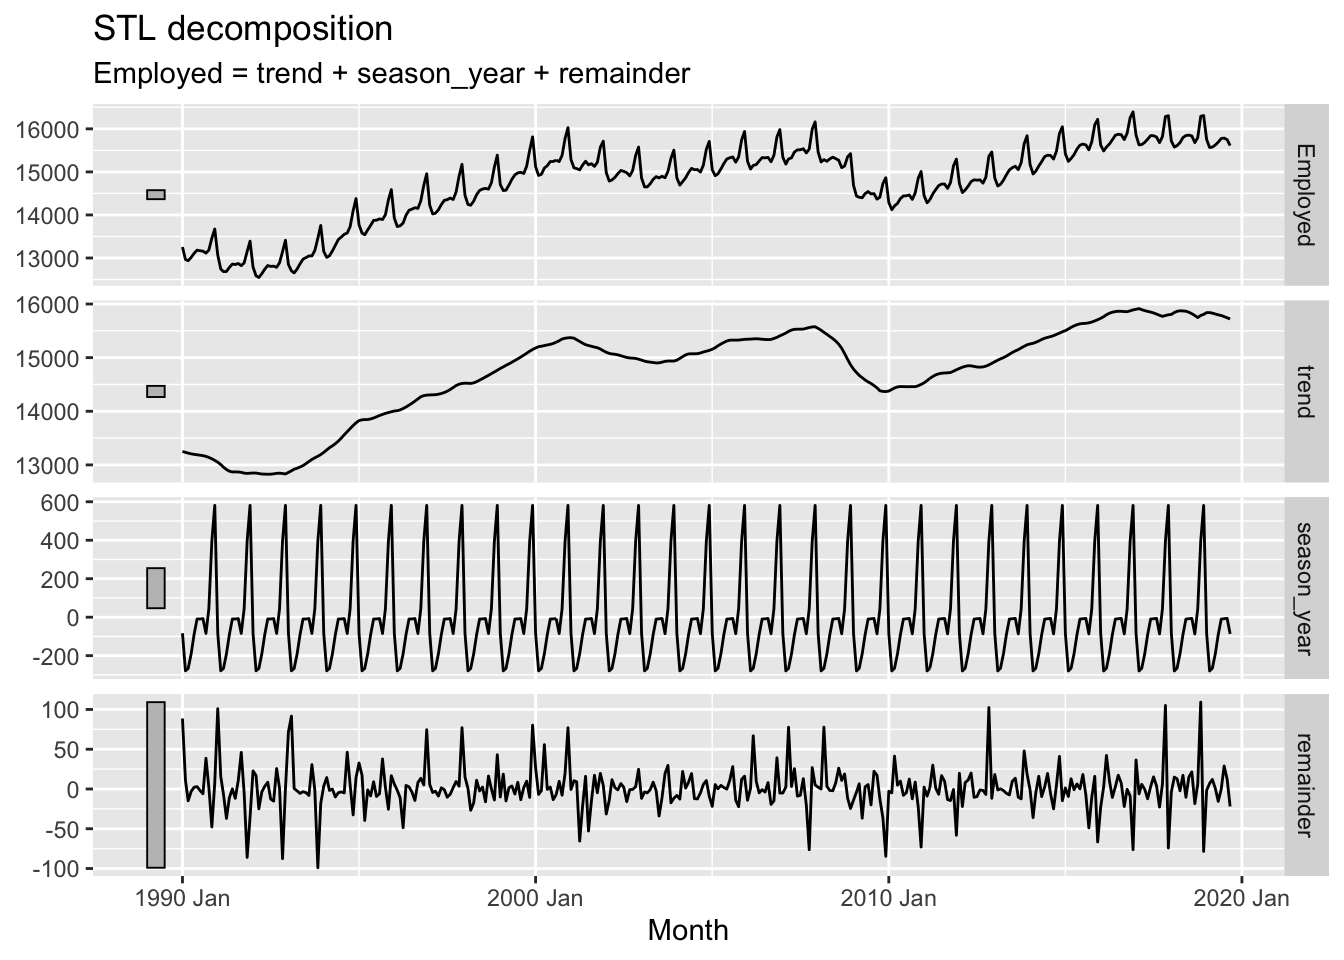
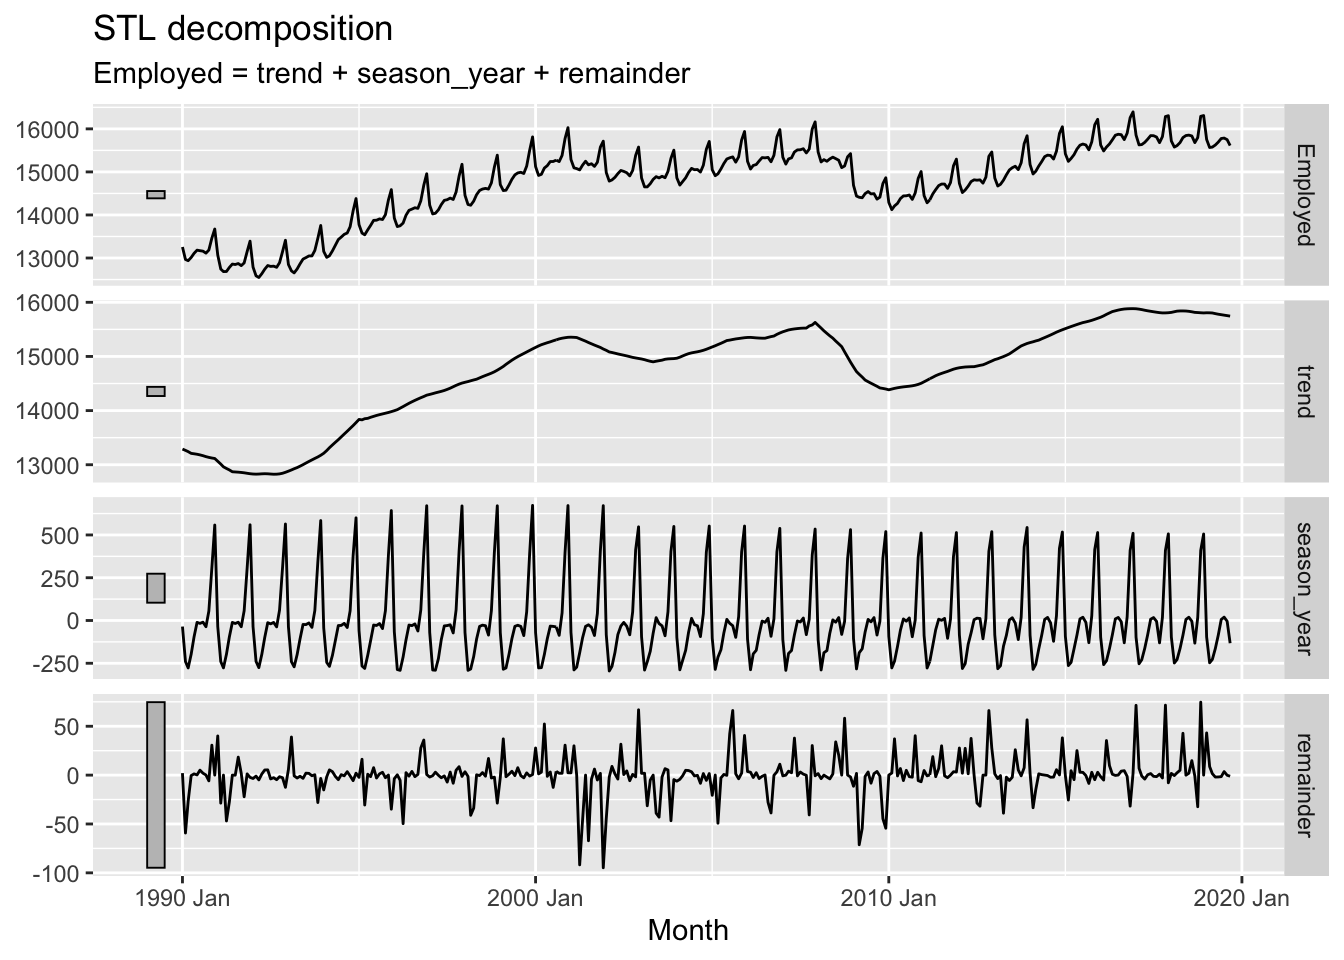
Built site for gh-pages

diff --git a/posts/glms/lms-are-glms-part-23/index.html b/posts/glms/lms-are-glms-part-23/index.html
@@ -459,7 +459,7 @@ pre > code.sourceCode > span > a:first-child::before { text-decoration: underlin
 <span id="cb15-2"><a href="#cb15-2" aria-hidden="true" tabindex="-1"></a>    <span class="fu">filter</span>(<span class="fu">year</span>(Month) <span class="sc">&gt;=</span> <span class="dv">1990</span>) <span class="sc">|&gt;</span></span>
 <span id="cb15-3"><a href="#cb15-3" aria-hidden="true" tabindex="-1"></a>  <span class="fu">model</span>(</span>
 <span id="cb15-4"><a href="#cb15-4" aria-hidden="true" tabindex="-1"></a>    <span class="fu">STL</span>(Employed <span class="sc">~</span> <span class="fu">trend</span>(<span class="at">window =</span> <span class="dv">7</span>) <span class="sc">+</span></span>
-<span id="cb15-5"><a href="#cb15-5" aria-hidden="true" tabindex="-1"></a>                   <span class="fu">season</span>(<span class="at">window =</span> <span class="dv">91</span>),</span>
+<span id="cb15-5"><a href="#cb15-5" aria-hidden="true" tabindex="-1"></a>                   <span class="fu">season</span>(<span class="at">window =</span> <span class="dv">5</span>),</span>
 <span id="cb15-6"><a href="#cb15-6" aria-hidden="true" tabindex="-1"></a>    <span class="at">robust =</span> <span class="cn">TRUE</span>)) <span class="sc">|&gt;</span></span>
 <span id="cb15-7"><a href="#cb15-7" aria-hidden="true" tabindex="-1"></a>  <span class="fu">components</span>() <span class="sc">|&gt;</span></span>
 <span id="cb15-8"><a href="#cb15-8" aria-hidden="true" tabindex="-1"></a>  <span class="fu">autoplot</span>()</span></code><button title="Copy to Clipboard" class="code-copy-button"><i class="bi"></i></button></pre></div>
@@ -468,6 +468,57 @@ pre > code.sourceCode > span > a:first-child::before { text-decoration: underlin
 <p><img src="index_files/figure-html/unnamed-chunk-13-1.png" class="img-fluid" width="672"></p>
 </div>
 </div>
+<p>In the above I’ve reduced the season window size (by default it’s infinite). Whereas before this seasonal pattern was forced to be constant for the whole time period, this time we an see that it changes, or ‘evolves’, over the course of the time series. We can also see that the remainder component, though looking quite random, now looks especially ‘spiky’, suggesting that the kinds of residuals left are somewhat further from Guassian white noise than in the first example.</p>
+<section id="section-concluding-thoughts" class="level3">
+<h3 class="anchored" data-anchor-id="section-concluding-thoughts">Section concluding thoughts</h3>
+<p>STL decomposition is one of a number of strategies for decomposition available to us. Other examples are described here. However the aims and principles of decomposition are somewhat similar no matter what approach is used.</p>
+<p>Having performed a decomposition on time series data, we <em>could</em> potentially apply something like an ARIMA model to the <strong>trend</strong> component of the data alone for purposes of projection. If using a constant seasonal component, we could then add this component onto forecast values from the trend component, along with noise consistent with the properties of the remainder component. However, there is a variant of the ARIMA model specification that can work with this kind of seasonal data directly. Let’s look at that now</p>
+</section>
+</section>
+<section id="approach-three-sarima" class="level2">
+<h2 class="anchored" data-anchor-id="approach-three-sarima">Approach Three: SARIMA</h2>
+<p>SARIMA stands for <a href="https://otexts.com/fpp2/seasonal-arima.html">‘Seasonal ARIMA’</a> (where of course ARIMA stands for Autoregressive-Integrated-Moving Average). Whereas an ARIMA model has a specification shorthand <code>ARIMA(p, d, q)</code>, a SARIMA model has an extended specification: <code>SARIMA(p, d, q) (P, D, Q)_S</code>. This means that whereas <code>ARIMA</code> has three parameters to specify, a SARIMA model has seven. This might appear like a big jump in model complexity, but the gap from ARIMA to SARIMA is smaller than it first appears.</p>
+<p>To see this it’s first noticing that, as well as terms <code>p</code>, <code>d</code> and <code>q</code>, there are also terms <code>P</code>, <code>D</code> and <code>Q</code>. This would suggest that whatever Autoregressive (<code>p</code>), integration (<code>d</code>) and moving average (<code>q</code>) processes are involved in standard ARIMA are also involved in another capacity in SARIMA. And what’s this other capacity? The clue to this is in the <code>S</code> term.</p>
+<p><code>S</code> <a href="#fn3" class="footnote-ref" id="fnref3" role="doc-noteref"><sup>3</sup></a> stands for the <strong>seasonal</strong> component of the model, and specifies the number of observations that are expected to include a repeating seasonal cycle. As most seasonal cycles are annual, this means <code>S</code> will be <code>12</code> if the data are monthly, <code>4</code> if the data are quarterly, and so on.</p>
+<p>The UPPERCASE <code>P</code>, <code>D</code> and <code>Q</code> terms then specify which standard ARIMA processes should be modelled as occurring every <code>S</code> steps in the data series. Although algebraically this means SARIMA models may look a lot more complicated than standard ARIMA models, it’s really the same process, and the same intuition, applied twice: to characterising the seasonal ‘signals’ in the time series, and to characteristing the non-seasonal ‘signals’ in the time series.</p>
+<p>Although there are important diagnostic charts and heuristics to use when determining and judging which SARIMA specification may be most appropriate for modelling seasonal data, such as the PACF and ACF, we can still use the auto.arima() function to see if the best SARIMA specification can be identified algorithmically:</p>
+<div class="cell">
+<details>
+<summary>Code</summary>
+<div class="sourceCode cell-code" id="cb16"><pre class="sourceCode r code-with-copy"><code class="sourceCode r"><span id="cb16-1"><a href="#cb16-1" aria-hidden="true" tabindex="-1"></a>best_sarima_model <span class="ot">&lt;-</span> <span class="fu">auto.arima</span>(<span class="fu">as.ts</span>(us_retail_employment, <span class="st">"Employed"</span>))</span>
+<span id="cb16-2"><a href="#cb16-2" aria-hidden="true" tabindex="-1"></a>best_sarima_model</span></code><button title="Copy to Clipboard" class="code-copy-button"><i class="bi"></i></button></pre></div>
+</details>
+<div class="cell-output cell-output-stdout">
+<pre><code>Series: as.ts(us_retail_employment, "Employed") 
+ARIMA(1,1,2)(2,1,2)[12] 
+
+Coefficients:
+         ar1      ma1     ma2     sar1     sar2    sma1     sma2
+      0.8784  -0.8428  0.1028  -0.6962  -0.0673  0.2117  -0.3873
+s.e.  0.0374   0.0481  0.0332   0.0977   0.0691  0.0937   0.0776
+
+sigma^2 = 1442:  log likelihood = -4832.08
+AIC=9680.16   AICc=9680.31   BIC=9719.06</code></pre>
+</div>
+</div>
+<p>Here <code>auto.arima()</code> produced an <code>ARIMA(1, 1, 2) (2, 1, 2)_12</code> specification, meaning <code>p=1</code>, <code>d=1</code>, <code>q=2</code> for the non-seasonal part; and <code>P=2</code>, <code>D=1</code>, <code>Q=2</code> for the seasonal part.</p>
+<p>What kind of forecasts does this produce?</p>
+<div class="cell">
+<details>
+<summary>Code</summary>
+<div class="sourceCode cell-code" id="cb18"><pre class="sourceCode r code-with-copy"><code class="sourceCode r"><span id="cb18-1"><a href="#cb18-1" aria-hidden="true" tabindex="-1"></a>best_sarima_model <span class="sc">|&gt;</span> </span>
+<span id="cb18-2"><a href="#cb18-2" aria-hidden="true" tabindex="-1"></a>  <span class="fu">forecast</span>(<span class="at">h=</span><span class="dv">48</span>) <span class="sc">|&gt;</span></span>
+<span id="cb18-3"><a href="#cb18-3" aria-hidden="true" tabindex="-1"></a>  <span class="fu">autoplot</span>()</span></code><button title="Copy to Clipboard" class="code-copy-button"><i class="bi"></i></button></pre></div>
+</details>
+<div class="cell-output-display">
+<p><img src="index_files/figure-html/unnamed-chunk-15-1.png" class="img-fluid" width="672"></p>
+</div>
+</div>
+<p>We can see the forecasts tend to repeat the seasonal pattern apparent throughout the observed data, and also widen in the usual way the further we move from the observed data.</p>
+</section>
+<section id="summing-up" class="level2">
+<h2 class="anchored" data-anchor-id="summing-up">Summing up</h2>
+<p>In this post we have looked at three approaches for working with seasonal data: aggregating seasonality away; decomposition; and SARIMA. These are far from an exhaustive list, but hopefully illustrate some common strategies for working with this kind of data.</p>
 
 
 </section>
@@ -478,6 +529,7 @@ pre > code.sourceCode > span > a:first-child::before { text-decoration: underlin
 <ol>
 <li id="fn1"><p>Occasionally, we might also see repeated patterns over non-annual timescales. For example, we might see the apparent population size of a country shifting abruptly every 10 years, due to information from national censuses run every decade being incorporated into the population estimates. Or if we track sales by day we might see a weekly cycle, because trade during the weekends tends to be different than during the weekdays.<a href="#fnref1" class="footnote-back" role="doc-backlink">↩</a></p></li>
 <li id="fn2"><p>How this works is due to the acronym-in-the-acronym: LOESS, meaning <em>local estimation</em>. Effectively for each data point a local regression slope is calculated based on values a certain number of observations ahead and behind the value in question. The number of values ahead and behind considered is the ‘window’ size.<a href="#fnref2" class="footnote-back" role="doc-backlink">↩</a></p></li>
+<li id="fn3"><p>Sometimes <code>m</code> is used instead of S.<a href="#fnref3" class="footnote-back" role="doc-backlink">↩</a></p></li>
 </ol>
 </section></div></main> <!-- /main -->
 <script id="quarto-html-after-body" type="application/javascript">
